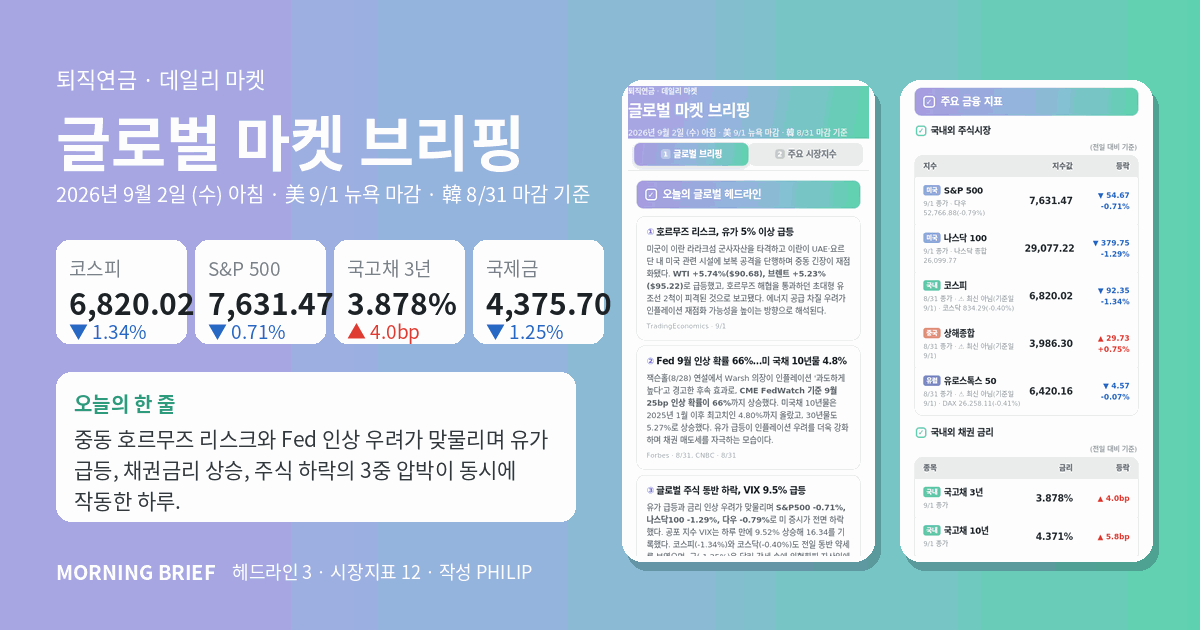
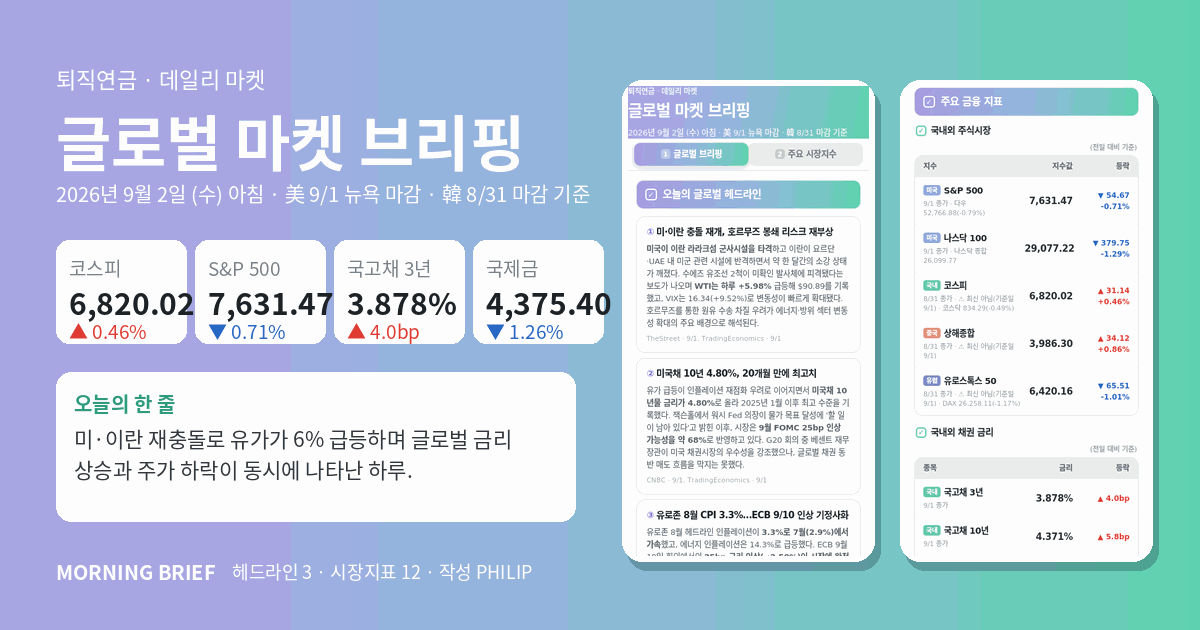
브리핑 2026-09-02 자동 배포
▼ 카톡에 붙여넣을 링크

https://psyops42-art.github.io/market-brief/2026-09-02.html

아카이브 : https://psyops42-art.github.io/market-brief/

diff --git a/docs/2026-09-02.html b/docs/2026-09-02.html
@@ -20,7 +20,7 @@
 <meta property="og:site_name"   content="퇴직연금 데일리 마켓 브리핑">
 <meta property="og:locale"      content="ko_KR">
 <meta property="og:title"       content="글로벌 마켓 브리핑 | 2026년 9월 2일 (수) 아침">
-<meta property="og:description" content="9/1 WTI +5.74% 급등·미 10년물 4.8% 돌파. 중동 호르무즈 긴장과 Fed 9월 인상 가능성이 겹치며 S&amp;P500 -0.71%, VIX +9.52% 상승.">
+<meta property="og:description" content="미·이란 호르무즈 충돌 재개로 WTI +6.0%·VIX +9.5% 급등. S&amp;P500 -0.71%, 미국채 10년 4.80%로 치솟으며 글로벌 채권 동반 약세.">
 <meta property="og:url"         content="https://psyops42-art.github.io/market-brief/2026-09-02.html">
 <meta property="og:image"       content="https://psyops42-art.github.io/market-brief/og-2026-09-02.png">
 <meta property="og:image:width"  content="1200">
@@ -29,10 +29,10 @@
 
 <meta name="twitter:card"        content="summary_large_image">
 <meta name="twitter:title"       content="글로벌 마켓 브리핑 | 2026년 9월 2일 (수) 아침">
-<meta name="twitter:description" content="9/1 WTI +5.74% 급등·미 10년물 4.8% 돌파. 중동 호르무즈 긴장과 Fed 9월 인상 가능성이 겹치며 S&amp;P500 -0.71%, VIX +9.52% 상승.">
+<meta name="twitter:description" content="미·이란 호르무즈 충돌 재개로 WTI +6.0%·VIX +9.5% 급등. S&amp;P500 -0.71%, 미국채 10년 4.80%로 치솟으며 글로벌 채권 동반 약세.">
 <meta name="twitter:image"       content="https://psyops42-art.github.io/market-brief/og-2026-09-02.png">
 
-<meta name="description" content="9/1 WTI +5.74% 급등·미 10년물 4.8% 돌파. 중동 호르무즈 긴장과 Fed 9월 인상 가능성이 겹치며 S&amp;P500 -0.71%, VIX +9.52% 상승.">
+<meta name="description" content="미·이란 호르무즈 충돌 재개로 WTI +6.0%·VIX +9.5% 급등. S&amp;P500 -0.71%, 미국채 10년 4.80%로 치솟으며 글로벌 채권 동반 약세.">
 <meta name="author" content="PHILIP">
 <title>글로벌 마켓 브리핑 | 2026년 9월 2일 (수) 아침</title>
 <style>
@@ -209,37 +209,37 @@ body{
       <div class="sec"><div class="ck">✓</div><h2>오늘의 글로벌 헤드라인</h2></div>
 
       <div class="news">
-        <div class="h"><em>①</em>호르무즈 리스크, 유가 5% 이상 급등</div>
-        <div class="d">미군이 이란 라라크섬 군사자산을 타격하고 이란이 UAE·요르단 내 미국 관련 시설에 보복 공격을 단행하며 중동 긴장이 재점화됐다. <b>WTI +5.74%($90.68), 브렌트 +5.23%($95.22)</b>로 급등했고, 호르무즈 해협을 통과하던 초대형 유조선 2척이 피격된 것으로 보고됐다. 에너지 공급 차질 우려가 인플레이션 재점화 가능성을 높이는 방향으로 해석된다.</div>
-        <div class="s">TradingEconomics · 9/1</div>
+        <div class="h"><em>①</em>미·이란 충돌 재개, 호르무즈 봉쇄 리스크 재부상</div>
+        <div class="d"><b>미국이 이란 라라크섬 군사시설을 타격</b>하고 이란이 요르단·UAE 내 미군 관련 시설에 반격하면서 약 한 달간의 소강 상태가 깨졌다. 수에즈 유조선 2척이 미확인 발사체에 피격됐다는 보도가 나오며 <b>WTI는 하루 +5.98%</b> 급등해 $90.89를 기록했고, VIX는 16.34(+9.52%)로 변동성이 빠르게 확대됐다. 호르무즈를 통한 원유 수송 차질 우려가 에너지·방위 섹터 변동성 확대의 주요 배경으로 해석된다.</div>
+        <div class="s">TheStreet · 9/1, TradingEconomics · 9/1</div>
       </div>
       <div class="news">
-        <div class="h"><em>②</em>Fed 9월 인상 확률 66%…미 국채 10년물 4.8%</div>
-        <div class="d">잭슨홀(8/28) 연설에서 Warsh 의장이 인플레이션 '과도하게 높다'고 경고한 후속 효과로, <b>CME FedWatch 기준 9월 25bp 인상 확률이 66%</b>까지 상승했다. 미국채 10년물은 2025년 1월 이후 최고치인 4.80%까지 올랐고, 30년물도 5.27%로 상승했다. 유가 급등이 인플레이션 우려를 더욱 강화하며 채권 매도세를 자극하는 모습이다.</div>
-        <div class="s">Forbes · 8/31, CNBC · 8/31</div>
+        <div class="h"><em>②</em>미국채 10년 4.80%, 20개월 만에 최고치</div>
+        <div class="d">유가 급등이 인플레이션 재점화 우려로 이어지면서 <b>미국채 10년물 금리가 4.80%</b>로 올라 2025년 1월 이후 최고 수준을 기록했다. 잭슨홀에서 워시 Fed 의장이 물가 목표 달성에 '할 일이 남아 있다'고 밝힌 이후, 시장은 <b>9월 FOMC 25bp 인상 가능성을 약 68%</b>로 반영하고 있다. G20 회의 중 베센트 재무장관이 미국 채권시장의 우수성을 강조했으나, 글로벌 채권 동반 매도 흐름을 막지는 못했다.</div>
+        <div class="s">CNBC · 9/1, TradingEconomics · 9/1</div>
       </div>
       <div class="news">
-        <div class="h"><em>③</em>글로벌 주식 동반 하락, VIX 9.5% 급등</div>
-        <div class="d">유가 급등과 금리 인상 우려가 맞물리며 <b>S&P500 -0.71%, 나스닥100 -1.29%, 다우 -0.79%</b>로 미 증시가 전면 하락했다. 공포 지수 VIX는 하루 만에 9.52% 상승해 16.34를 기록했다. 코스피(-1.34%)와 코스닥(-0.40%)도 전일 동반 약세를 보였으며, 금(-1.25%)은 달러 강세 속에 위험회피 자산임에도 하락했다.</div>
-        <div class="s">Motley Fool · 9/1, TradingEconomics · 9/1</div>
+        <div class="h"><em>③</em>유로존 8월 CPI 3.3%…ECB 9/10 인상 기정사화</div>
+        <div class="d">유로존 8월 헤드라인 인플레이션이 <b>3.3%로 7월(2.9%)에서 가속</b>했고, 에너지 인플레이션은 14.3%로 급등했다. ECB 9월 10일 회의에서의 <b>25bp 금리 인상(→2.50%)이 시장에 완전 반영</b>됐으며, 이는 유로스톡스 50(-1.01%)·DAX(-1.17%) 하락과 글로벌 채권 금리 동반 상승의 추가 배경이 됐다. 코어 인플레이션(2.4%)은 소폭 하락해 이번 사이클에서의 추가 인상에 대해서는 시장 내 의견이 엇갈리고 있다.</div>
+        <div class="s">Euronews · 9/1, TradingEconomics · 9/1</div>
       </div>
       <div class="news kr">
-        <div class="h">9월부터 퇴직연금 계좌로 개인투자용 국채 직접 투자 개시</div>
-        <div class="d"><b>DC형·IRP 계좌로 10년·20년물 개인투자용 국채를 직접 매입</b>할 수 있는 제도가 이달부터 시행된다. 국고채 10년물 금리가 4.371%(+5.8bp)로 상승한 현 시점은 장기채 수익률이 상대적으로 높아진 구간이며, 연금 자산의 안정성·장기성을 강화하려는 제도 취지와 맞닿아 있다. 다만 금리 추가 상승 가능성이 있는 환경에서 국채 편입 시점과 듀레이션 관리는 신중하게 검토할 필요가 있다.</div>
-        <div class="s">재정경제부·Investing.com · 2/13</div>
+        <div class="h">9월부터 DC·IRP로 국고채 직접 투자 허용</div>
+        <div class="d"><b>9월부터 DC형·개인형 IRP 계좌를 통해 10년·20년물 개인투자용 국채에 직접 투자</b>하는 제도가 시행된다. 글로벌 금리 상승 국면에서 장기 국고채 편입 선택지가 확대된 점은 퇴직연금 자산배분의 '안정성 강화' 측면에서 주목할 만하다. 다만 현재 국고채 10년물이 4.371%(+5.8bp)로 오르고 있어, 편입 시 듀레이션 리스크를 함께 점검할 필요가 있다.</div>
+        <div class="s">Investing.com(Economic Review) · 2/13</div>
       </div>
 
       <div class="sec" style="margin-top:20px"><div class="ck">✓</div><h2>투자마인드</h2></div>
 
       <div class="mind">
         <div class="n">MINDSET 01</div>
-        <div class="t">오늘의 국면: 유가·금리·달러가 동시에 상승</div>
-        <div class="b">WTI가 하루 만에 5.74% 급등하고 미 10년물이 4.80%로 치솟는 동시에 달러인덱스가 강세를 보이는 국면은 <b>'인플레이션 우려 → 금리 인상 기대 → 위험자산 조정'</b>의 연쇄 고리가 작동하는 전형적인 스태그플레이션 우려 구간으로 해석된다. 주식·채권·원자재가 단기적으로 동조화 움직임을 보일 때일수록 자산배분 분산 효과가 시험대에 오른다.</div>
+        <div class="t">오늘 시장 국면: &#x27;복합 리스크&#x27; 구간</div>
+        <div class="b">유가 급등(지정학) + 금리 상승(인플레이션) + 주가 하락(성장 우려)이 동시에 작동하는 <b>복합 리스크 국면</b>이다. 이 구간에서는 자산 간 상관관계가 단기 급변하는 경향이 있어, 단일 자산에 편중된 포트폴리오는 변동성 충격을 그대로 받을 가능성이 높다. 글로벌 자산배분 전략이 이런 국면의 분산 효과를 가장 잘 발휘하는 시점으로 해석된다.</div>
       </div>
       <div class="mind">
         <div class="n">MINDSET 02</div>
-        <div class="t">Core-Satellite 역할 분담: 지금 흔들려야 할 것과 지켜야 할 것</div>
-        <div class="b"><b>Core(TDF)는 장기 글라이드패스를 유지</b>하며 이날 같은 단기 변동성에 자동으로 대응하는 완충재 역할을 한다. Satellite(ETF)는 에너지·원자재 관련 섹터에 단기 노출이 있을 경우 변동성이 커질 수 있으므로, 비중이 목표 밴드를 벗어났는지 점검하는 것이 먼저다. 리밸런싱은 수익 추종이 아니라 비중 복원이 목적임을 일관되게 유지한다.</div>
+        <div class="t">Core-Satellite 역할 분담 재확인</div>
+        <div class="b"><b>Core(TDF)</b>는 글로벌 주식·채권을 자동 리밸런싱하며 단기 충격을 흡수하는 완충 역할을 한다. <b>Satellite(ETF)</b>는 에너지·인플레이션 연동 자산 등 특정 국면에 대응하는 보완 역할이며, 변동성이 높을수록 비중 조정보다 역할 분리 원칙을 지키는 것이 우선이다. 이 두 축의 역할 분담을 흔들지 않는 것이 시장 노이즈에 흔들리지 않는 핵심이다.</div>
         <div class="cs">
           <div class="box core"><div class="l">핵심자산 Core</div><div class="v">TDF 30~50%</div></div>
           <div class="plus">+</div>
@@ -248,15 +248,15 @@ body{
       </div>
       <div class="mind">
         <div class="n">MINDSET 03</div>
-        <div class="t">장기 원칙: 금리 상단을 예측하지 않는다</div>
-        <div class="b">미국채 10년물이 어디서 멈출지 아무도 알 수 없다. <b>채권 금리가 올라갈 때 채권 가격이 내린다는 사실은 맞지만, 그것이 채권 비중을 지금 줄여야 한다는 신호는 아니다.</b> 장기 투자자에게 높아진 채권 금리는 미래 재투자 수익률이 높아지는 측면이기도 하다. 시장 타이밍보다 자산배분 원칙을 지키는 것이 장기 성과의 핵심이다.</div>
+        <div class="t">장기투자 원칙: 변동성은 가격이 아니라 과정이다</div>
+        <div class="b">VIX 16.34(+9.5%)는 불안 심리의 확대를 보여 주지만, 역사적으로 이 수준은 <b>극단적 공포 구간과는 거리가 있다</b>. 퇴직연금은 수십 년의 지평을 가진 장기 투자이므로, 특정 국면의 가격 움직임보다 <b>적립과 분산의 일관성</b>이 최종 수익률을 결정하는 더 큰 변수다.</div>
       </div>
 
       <div class="quote">
         <div class="qh">그대로 쓰는 정리 문장</div>
-        <p>유가가 급등해도 <b>장기 배분 비중</b>을 지금 바꿀 이유는 없습니다.</p>
-        <p><b>VIX 상승</b>은 시장의 불안이지, 포트폴리오 조정 신호가 아닙니다.</p>
-        <p>금리가 오를수록 <b>채권 재투자 수익률</b>도 높아질 수 있습니다.</p>
+        <p>유가·금리가 동시에 오를 때 <b>분산된 포트폴리오</b>가 방어막이 됩니다.</p>
+        <p>지금은 비중을 바꿀 시점이 아니라 <b>원칙을 지키는 시점</b>입니다.</p>
+        <p>9월부터 IRP로 <b>국고채 직접 투자</b>가 가능해졌으니 함께 살펴보겠습니다.</p>
       </div>
 
       <div class="note">
@@ -283,16 +283,16 @@ body{
           <div class="c2">29,077.22</div><div class="c3 dn">▼ 379.75<br>-1.29%</div>
         </div>
         <div class="row">
-          <div class="c1"><div class="nm"><span class="bd kr">국내</span>코스피</div><div class="sub">8/31 종가 · ⚠ 최신 아님(기준일 9/1) · 코스닥 834.29(-0.40%)</div></div>
-          <div class="c2">6,820.02</div><div class="c3 dn">▼ 92.35<br>-1.34%</div>
+          <div class="c1"><div class="nm"><span class="bd kr">국내</span>코스피</div><div class="sub">8/31 종가 · ⚠ 최신 아님(기준일 9/1) · 코스닥 834.29(-0.49%)</div></div>
+          <div class="c2">6,820.02</div><div class="c3 up">▲ 31.14<br>+0.46%</div>
         </div>
         <div class="row">
           <div class="c1"><div class="nm"><span class="bd cn">중국</span>상해종합</div><div class="sub">8/31 종가 · ⚠ 최신 아님(기준일 9/1)</div></div>
-          <div class="c2">3,986.30</div><div class="c3 up">▲ 29.73<br>+0.75%</div>
+          <div class="c2">3,986.30</div><div class="c3 up">▲ 34.12<br>+0.86%</div>
         </div>
         <div class="row">
-          <div class="c1"><div class="nm"><span class="bd eu">유럽</span>유로스톡스 50</div><div class="sub">8/31 종가 · ⚠ 최신 아님(기준일 9/1) · DAX 26,258.11(-0.41%)</div></div>
-          <div class="c2">6,420.16</div><div class="c3 dn">▼ 4.57<br>-0.07%</div>
+          <div class="c1"><div class="nm"><span class="bd eu">유럽</span>유로스톡스 50</div><div class="sub">8/31 종가 · ⚠ 최신 아님(기준일 9/1) · DAX 26,258.11(-1.17%)</div></div>
+          <div class="c2">6,420.16</div><div class="c3 dn">▼ 65.51<br>-1.01%</div>
         </div>
       </div>
 
@@ -324,36 +324,36 @@ body{
         <div class="th"><div class="c1">지표</div><div class="c2">가격</div><div class="c3">등락</div></div>
         <div class="row">
           <div class="c1"><div class="nm"><span class="bd fx">환율</span>달러인덱스 (pt)</div><div class="sub">9/1 종가</div></div>
-          <div class="c2">99.67</div><div class="c3 up">▲ 0.24<br>+0.24%</div>
+          <div class="c2">99.65</div><div class="c3 up">▲ 0.22<br>+0.23%</div>
         </div>
         <div class="row">
           <div class="c1"><div class="nm"><span class="bd fx">환율</span>달러/원 (USD/KRW)</div><div class="sub">9/1 종가</div></div>
-          <div class="c2">1,366.62</div><div class="c3 dn">▼ 10.49<br>-0.76%</div>
+          <div class="c2">1,374.50</div><div class="c3 dn">▼ 2.61<br>-0.19%</div>
         </div>
         <div class="row">
           <div class="c1"><div class="nm"><span class="bd cm">원자재</span>국제금 ($/oz, 선물)</div><div class="sub">9/1 종가</div></div>
-          <div class="c2">4,375.70</div><div class="c3 dn">▼ 55.40<br>-1.25%</div>
+          <div class="c2">4,375.40</div><div class="c3 dn">▼ 55.70<br>-1.26%</div>
         </div>
         <div class="row">
-          <div class="c1"><div class="nm"><span class="bd cm">원자재</span>유가 WTI ($/bbl, 선물)</div><div class="sub">9/1 종가 · 브렌트 $95.22</div></div>
-          <div class="c2">90.68</div><div class="c3 up">▲ 4.92<br>+5.74%</div>
+          <div class="c1"><div class="nm"><span class="bd cm">원자재</span>유가 WTI ($/bbl, 선물)</div><div class="sub">9/1 종가 · 브렌트 $95.48</div></div>
+          <div class="c2">90.89</div><div class="c3 up">▲ 5.13<br>+5.98%</div>
         </div>
         <div class="row">
           <div class="c1"><div class="nm"><span class="bd cr">가상자산</span>비트코인 (BTC/USD)</div><div class="sub">9/1 종가 · 24시간 거래</div></div>
-          <div class="c2">77,239.00</div><div class="c3 dn">▼ 1,309.63<br>-1.67%</div>
+          <div class="c2">77,052.40</div><div class="c3 dn">▼ 1,496.23<br>-1.90%</div>
         </div>
       </div>
 
       <div class="sec"><div class="ck">✓</div><h2>오늘의 한 줄</h2></div>
 
       <div class="oneline">
-        <p><span class="k">시장</span> 중동 호르무즈 리스크와 Fed 인상 우려가 맞물리며 유가 급등, 채권금리 상승, 주식 하락의 3중 압박이 동시에 작동한 하루.</p>
-        <p><span class="k">연금</span> 인플레·금리 변동성이 높아진 국면일수록 TDF 중심의 Core 비중이 단기 충격을 흡수하는 완충 역할을 한다는 점을 재확인할 수 있다.</p>
+        <p><span class="k">시장</span> 미·이란 재충돌로 유가가 6% 급등하며 글로벌 금리 상승과 주가 하락이 동시에 나타난 하루.</p>
+        <p><span class="k">연금</span> 복합 리스크 구간일수록 Core-Satellite 역할 분담을 흔들지 않는 것이 퇴직연금 운용의 핵심이다.</p>
       </div>
 
       <div class="nextbox">
         <div class="qh">이벤트 및 일정 체크</div>
-        <p>9/2 미국 ADP 비농업 고용 발표 · 9/4(금) 미국 8월 공식 고용보고서(NFP) · 9/15~16 FOMC 회의(인상 여부 최종 결정) · 국내 DC·IRP 개인투자용 국채 청약 시스템 운영 개시 점검</p>
+        <p>9/2(수) ADP 고용보고서 · 9/4(금) 미국 8월 NFP(비농업 고용) · 9/10(수) ECB 통화정책회의 · 9/16~17(화-수) FOMC 회의</p>
       </div>
 
       <div class="srcbox">

diff --git a/docs/index.html b/docs/index.html
@@ -43,7 +43,7 @@ a.card.new{border:1.5px solid #63D3B2;background:#F4FBF8}
     <a class="card new" href="2026-09-02.html">
       <div class="dt">최신</div>
       <div class="tt">글로벌 마켓 브리핑 | 2026년 9월 2일 (수) 아침</div>
-      <div class="ln">중동 호르무즈 리스크와 Fed 인상 우려가 맞물리며 유가 급등, 채권금리 상승, 주식 하락의 3중 압박이 동시에 작동한 하루.</div>
+      <div class="ln">미·이란 재충돌로 유가가 6% 급등하며 글로벌 금리 상승과 주가 하락이 동시에 나타난 하루.</div>
       <div class="go">브리핑 열기 →</div>
     </a>
     <a class="card" href="2026-09-01.html">
